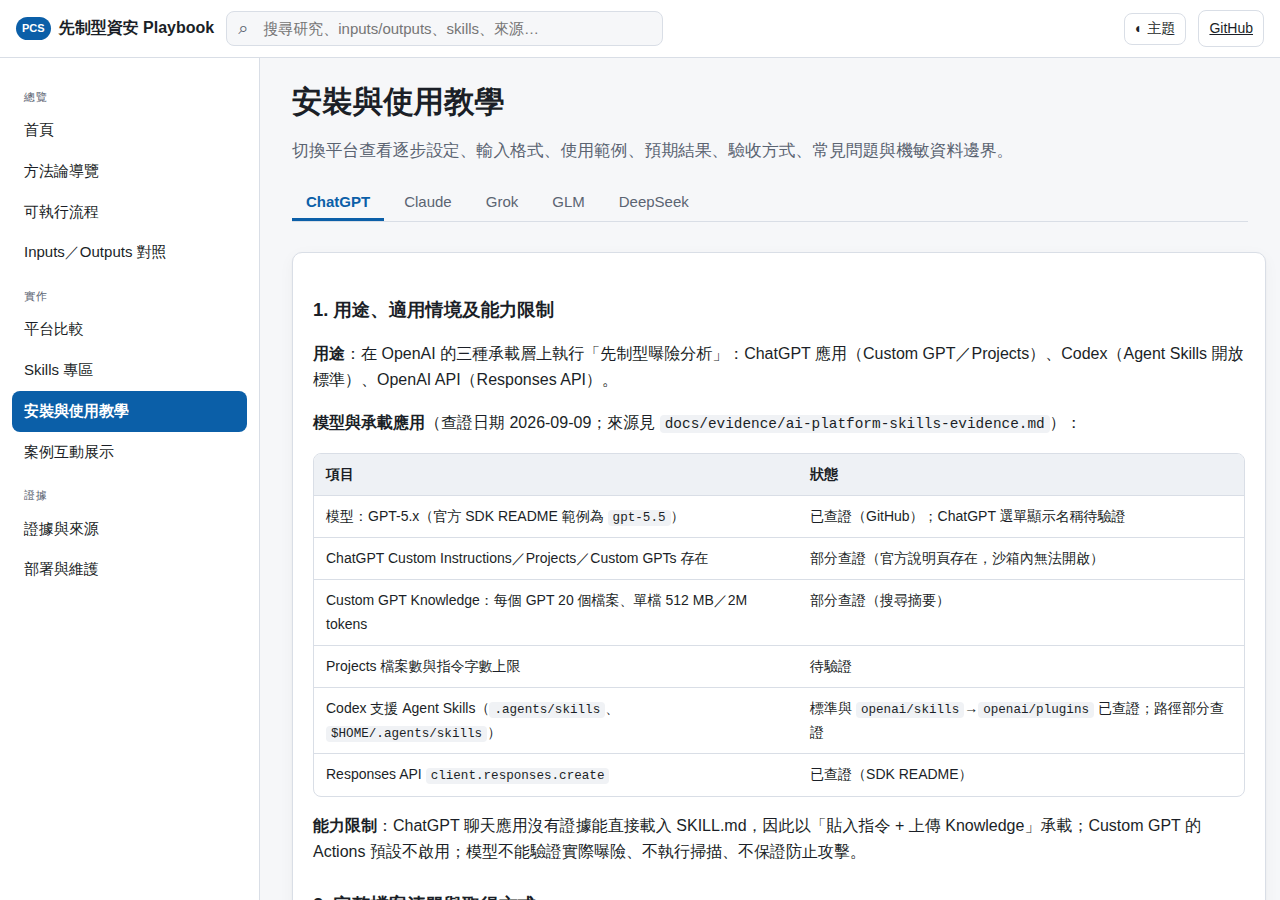
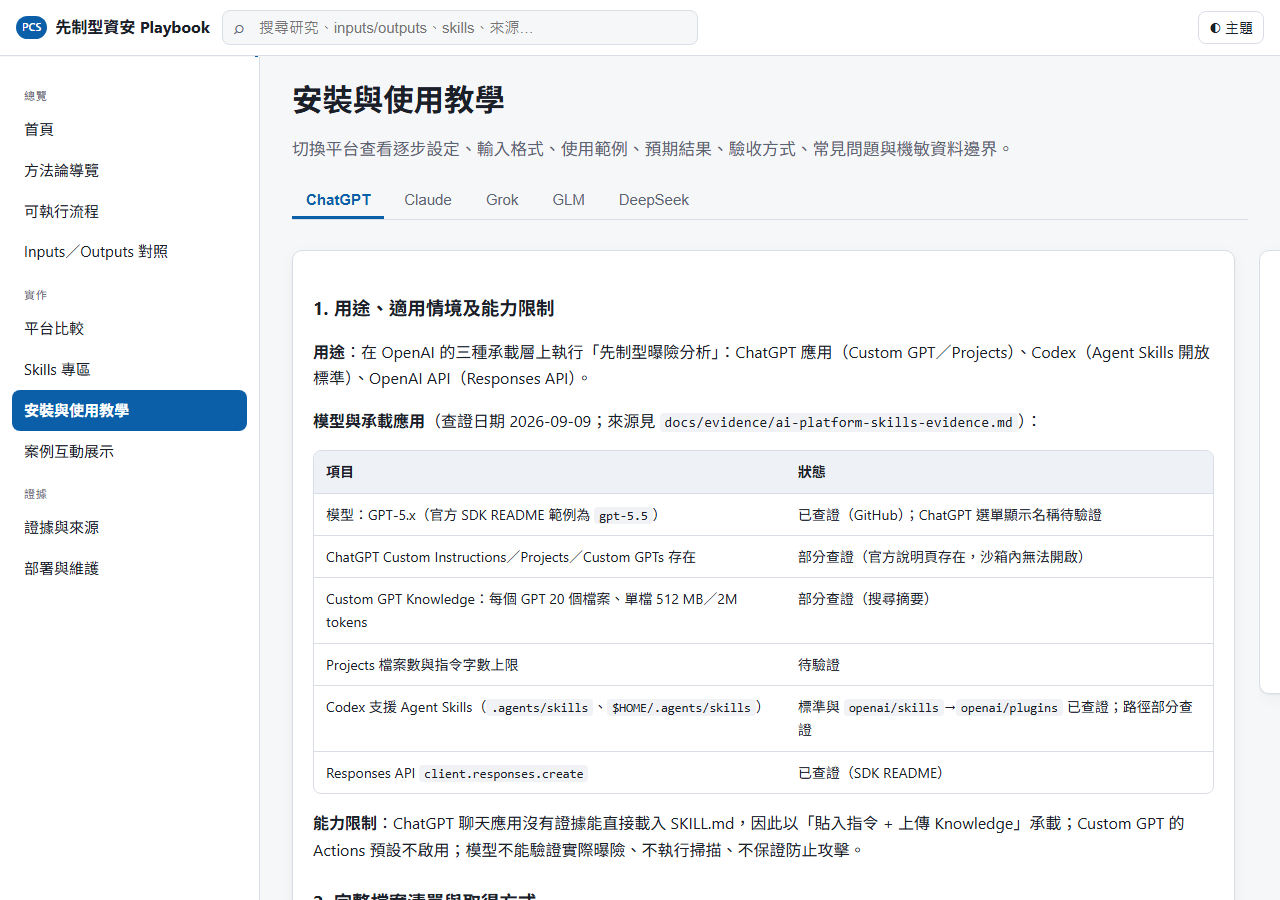
修正公開站點上的死連結，並把來源連結檢查移到 GitHub Actions
儲存庫是 private 但 Pages 站點是公開的，因此所有指向 repo 的連結對訪客都是 404：
topbar 的 GitHub 按鈕、以及 U1／U2 兩筆來源（它們的 URL 只是佔位值，
那兩份使用者提供的 AI 生成報告從未放入儲存庫）。

- topbar GitHub 按鈕預設隱藏，由 assets/app.js 的 REPO_PUBLIC 開關控制；
  儲存庫轉為公開時改一個布林值即可，不必再找散落的連結
- U1／U2 的 url 改為 null，來源表顯示「無公開連結」而非可點的 404；
  verify.mjs 的 --links 會跳過並在 link-check.md 標示
- 部署頁的「建置時間」改為內容指紋，順帶移除該處第二個 repo 連結

連結檢查（P2）：本地 proxy 把 gartner.com 等 42 個 URL 一律回 403，該結果沒有判定價值。
新增 .github/workflows/link-check.yml 在 runner 上執行（手動觸發 + 每季一次），
以 artifact 提供結果並在 job summary 統計狀態碼，不自動提交——
runner 走資料中心 IP，部分站點仍會因 bot 防護回 403，需人工判讀。
verify:links 改為「靜態 + 連結」不含瀏覽器，讓該工作流程不必安裝 Playwright。

verify: 64/64 通過（含 Playwright 瀏覽器檢查；來源頁連結由 57 降為 55，即 U1／U2 已不再產生連結）

diff --git a/data/guides.js b/data/guides.js
@@ -46,6 +46,6 @@ window.GUIDE_DOCS = [
   "title": "部署與維護",
   "order": 90,
   "platform": "",
-  "body": "\n## 1. 網站架構\n\n純靜態網站，無建置框架、無外部相依（無 CDN、無追蹤）：\n\n```\nindex.html            單頁應用程式殼\nassets/styles.css     樣式（淺／深色、行動裝置、列印）\nassets/md.js          極簡 Markdown 渲染器\nassets/demo.js        案例互動展示的確定性引擎\nassets/app.js         hash 路由、各頁面、全站搜尋、複製／下載\ndata/*.js             由 scripts/build-data.mjs 產生（research、guides、skills、case、manifest）或手動維護（process、io、platforms、sources）\ndownloads/*.zip       由建置腳本產生的下載包\ndocs/                 研究文件（research/）、教學（guides/）、證據檔（evidence/）\nskills/               共用規格與五平台檔案（單一來源）\nexamples/             合成範例資料、預期輸出與示範引擎快照\nscripts/              build-data.mjs、verify.mjs、run-demo.mjs\nbackend/              選用的模型 API 代理範例（預設不需要）\npackage.json          npm scripts（建置／驗證的唯一入口）與 Playwright 版本\n.gitattributes        強制文字檔使用 LF（見第 7 節）\n.github/workflows/    pages.yml（部署）、ci.yml（PR 驗證）、link-check.yml（來源連結檢查）\n```\n\n內容以 `docs/` 與 `skills/` 為單一來源；**修改後務必執行** `npm run build` 重新產生 `data/` 與 `downloads/`，否則網站不會更新。\n\n## 2. 本機預覽\n\n```bash\ngit clone https://github.com/chinchiang/GartnerPreemptiveCybersecurity_Claude.git\ncd GartnerPreemptiveCybersecurity_Claude\nnpm run build                  # 等同 node scripts/build-data.mjs，不需要 npm install\nnpx http-server -p 8080 .      # 或 python3 -m http.server 8080\n# 開啟 http://localhost:8080/\n```\n\n建置與靜態驗證只用 Node 內建模組，**不需要 `npm install`**；只有瀏覽器驗證（Playwright）需要 `npm ci`。\n\n直接以 `file://` 開啟 `index.html` 也可運作（資料以 `<script>` 載入，不依賴 fetch）。\n\n## 3. GitHub Pages 部署\n\n工作流程 `.github/workflows/pages.yml` 會在推送到 `main` 時：安裝 Node 22 → `npm run build` → `npm run verify:static` → 上傳整個儲存庫為 Pages artifact → 部署。\n\n**已完成的一次性設定**（2026-09-13）：儲存庫 Settings → Pages → Build and deployment → Source 選 **GitHub Actions**；預設分支設為 `main`；`github-pages` 環境的部署分支規則允許 `main`。目前網址為 `https://chinchiang.github.io/GartnerPreemptiveCybersecurity_Claude/`，部署工作流程已成功執行並經人工確認。若新建 fork 或搬移儲存庫，需重做這三項設定。\n\n若偏好「Deploy from a branch」，也可以直接選 `main` 分支根目錄（因為 `data/` 與 `downloads/` 已提交），但建議用 Actions 以確保建置一致。\n\n## 4. 驗證\n\n```bash\nnpm run verify:static   # 資料檔、來源 ID 對應、schema、示範引擎驗收與快照、下載檔、機敏字串\nnpm run verify          # 加上 Playwright 瀏覽器檢查：導覽、搜尋、篩選、複製、下載、案例互動、行動裝置、無障礙\nnpm run verify:links    # 加上來源連結 HEAD 檢查，輸出 link-check.md（見第 4.2 節）\n```\n\n結果寫入 `verify-report.md`；截圖在 `verify-screenshots/`。任一項失敗時腳本以非零狀態結束。\n\n### 4.1 示範引擎快照\n\n評分規則同時存在於四個地方（`assets/demo.js`、`skills/shared/core-prompt.md`、`skills/shared/task-spec.md` 附錄 A、`skills/claude/.../references/scoring-rules.md`）。`examples/demo-snapshot.txt` 是 `run-demo.mjs` 的黃金輸出，`verify:static` 會逐位元組比對，用來抓「改了一處忘了同步其他三處」。\n\n規則**刻意**變更時：先確認四處都已同步，再執行 `npm run snapshot` 更新快照，並在 PR 說明變更理由。\n\n### 4.2 來源連結檢查在哪裡跑\n\n本地研究環境的出口 proxy 會把 gartner.com 等網域回成 403，**那不代表連結失效**。GitHub Actions runner 沒有這層限制，因此連結檢查改在 CI 執行：`.github/workflows/link-check.yml`（手動 `workflow_dispatch`，另每季 1 月／4 月／7 月／10 月 1 日自動執行），結果以 artifact 形式提供，確認後再覆蓋 `link-check.md` 並更新 `data/sources.js` 的 `LINK_CHECK_NOTE`。\n\nRunner 走資料中心 IP，Gartner 與部分媒體站仍可能因 bot 防護回 403；能藉此區分「本地 proxy 封鎖」與「站方封鎖」已是有價值的資訊。\n\n## 5. 維護\n\n| 要更新什麼 | 改哪裡 | 之後 |\n|---|---|---|\n| 研究內容 | `docs/research/*.md`（frontmatter `order`、`title`、`summary`） | `npm run build` |\n| 來源、待驗證清單、連結檢查紀錄 | `data/sources.js` | 無需 build |\n| 流程／I-O／平台比較 | `data/process.js`、`data/io.js`、`data/platforms.js` | 無需 build |\n| Skills | `skills/<platform>/…`；規則變更先改 `skills/shared/` 再同步各平台 | `npm run build` |\n| 教學 | `docs/guides/<platform>.md` | `npm run build` |\n| 範例資料 | `examples/synthetic-org/`（保持合成） | build；`npm run demo` 對照 `examples/expected-output.md`，再 `npm run snapshot` |\n| 評分規則 | `skills/shared/task-spec.md` 附錄 A、`core-prompt.md`、`assets/demo.js`、`references/scoring-rules.md` 需一致 | build + verify + `npm run snapshot` |\n\n`data/` 與 `downloads/` 是建置產物但**有進版控**（為了讓 `file://` 與「Deploy from a branch」都能用）。CI 會執行 `git diff --exit-code -- data/ downloads/`，忘記重建就會擋下 PR。`data/manifest.js` 內的 `contentHash` 是來源內容的 SHA-256 前 12 碼——刻意不放建置時間，這樣同一份內容永遠產生同一個 manifest，上述檢查才守得住。\n\n建議每季重新查證：Gartner 新文件（尤其 Impact Radar 與 Hype Cycle 更新）、五個平台的模型與功能變動（見待驗證清單）。\n\n## 6. 安全與隱私\n\n- 儲存庫與網站不含任何 API 金鑰、憑證或真實資料；`verify.mjs` 會掃描金鑰樣式字串。\n- 網站不使用 cookie、不連外部服務；主題偏好只存於 `localStorage`。\n- 若啟用 `backend/` 代理，金鑰只在伺服器端，並限制來源與速率。\n\n## 7. 在 Windows 上開發\n\n`.gitattributes` 以 `* text=auto eol=lf` 強制所有文字檔在工作樹中使用 LF。**這不是風格偏好**：`build-data.mjs` 會把 `docs/` 與 `skills/` 的內容內嵌進 `data/*.js` 並打包成 ZIP，若以 CRLF 簽出，產出的位元組就與 Linux（CI／Pages）不同，第 5 節的一致性檢查會誤報。\n\n腳本本身也已對 CRLF 免疫（`readText()` 正規化換行、`parseFrontmatter()` 接受 `\\r?\\n`、路徑一律轉為 `/`），所以就算你的工作樹是 CRLF，建置結果仍然正確。若是在加入 `.gitattributes` 之前就已存在的 clone，執行一次 `git add --renormalize .` 確認索引乾淨即可。\n\n另外：`docs/guides/claude.md` 在不分大小寫的檔案系統上會被 Claude Code 誤認為 `CLAUDE.md` 專案指令檔而自動載入。這只影響在本儲存庫中使用 Claude Code 的體驗，不影響網站；若造成干擾，可在根目錄放一份真正的 `CLAUDE.md` 覆寫。\n"
+  "body": "\n## 1. 網站架構\n\n純靜態網站，無建置框架、無外部相依（無 CDN、無追蹤）：\n\n```\nindex.html            單頁應用程式殼\nassets/styles.css     樣式（淺／深色、行動裝置、列印）\nassets/md.js          極簡 Markdown 渲染器\nassets/demo.js        案例互動展示的確定性引擎\nassets/app.js         hash 路由、各頁面、全站搜尋、複製／下載\ndata/*.js             由 scripts/build-data.mjs 產生（research、guides、skills、case、manifest）或手動維護（process、io、platforms、sources）\ndownloads/*.zip       由建置腳本產生的下載包\ndocs/                 研究文件（research/）、教學（guides/）、證據檔（evidence/）\nskills/               共用規格與五平台檔案（單一來源）\nexamples/             合成範例資料、預期輸出與示範引擎快照\nscripts/              build-data.mjs、verify.mjs、run-demo.mjs\nbackend/              選用的模型 API 代理範例（預設不需要）\npackage.json          npm scripts（建置／驗證的唯一入口）與 Playwright 版本\n.gitattributes        強制文字檔使用 LF（見第 7 節）\n.github/workflows/    pages.yml（部署）、ci.yml（PR 驗證）、link-check.yml（來源連結檢查）\n```\n\n內容以 `docs/` 與 `skills/` 為單一來源；**修改後務必執行** `npm run build` 重新產生 `data/` 與 `downloads/`，否則網站不會更新。\n\n## 2. 本機預覽\n\n```bash\ngit clone https://github.com/chinchiang/GartnerPreemptiveCybersecurity_Claude.git\ncd GartnerPreemptiveCybersecurity_Claude\nnpm run build                  # 等同 node scripts/build-data.mjs，不需要 npm install\nnpx http-server -p 8080 .      # 或 python3 -m http.server 8080\n# 開啟 http://localhost:8080/\n```\n\n建置與靜態驗證只用 Node 內建模組，**不需要 `npm install`**；只有瀏覽器驗證（Playwright）需要 `npm ci`。\n\n直接以 `file://` 開啟 `index.html` 也可運作（資料以 `<script>` 載入，不依賴 fetch）。\n\n## 3. GitHub Pages 部署\n\n工作流程 `.github/workflows/pages.yml` 會在推送到 `main` 時：安裝 Node 22 → `npm run build` → `npm run verify:static` → 上傳整個儲存庫為 Pages artifact → 部署。\n\n**已完成的一次性設定**（2026-09-13）：儲存庫 Settings → Pages → Build and deployment → Source 選 **GitHub Actions**；預設分支設為 `main`；`github-pages` 環境的部署分支規則允許 `main`。目前網址為 `https://chinchiang.github.io/GartnerPreemptiveCybersecurity_Claude/`，部署工作流程已成功執行並經人工確認。若新建 fork 或搬移儲存庫，需重做這三項設定。\n\n若偏好「Deploy from a branch」，也可以直接選 `main` 分支根目錄（因為 `data/` 與 `downloads/` 已提交），但建議用 Actions 以確保建置一致。\n\n## 4. 驗證\n\n```bash\nnpm run verify:static   # 資料檔、來源 ID 對應、schema、示範引擎驗收與快照、下載檔、機敏字串\nnpm run verify          # 加上 Playwright 瀏覽器檢查：導覽、搜尋、篩選、複製、下載、案例互動、行動裝置、無障礙\nnpm run verify:links    # 靜態檢查 + 來源連結 HEAD 檢查（不含瀏覽器），輸出 link-check.md（見第 4.2 節）\n```\n\n結果寫入 `verify-report.md`；截圖在 `verify-screenshots/`。任一項失敗時腳本以非零狀態結束。\n\n### 4.1 示範引擎快照\n\n評分規則同時存在於四個地方（`assets/demo.js`、`skills/shared/core-prompt.md`、`skills/shared/task-spec.md` 附錄 A、`skills/claude/.../references/scoring-rules.md`）。`examples/demo-snapshot.txt` 是 `run-demo.mjs` 的黃金輸出，`verify:static` 會逐位元組比對，用來抓「改了一處忘了同步其他三處」。\n\n規則**刻意**變更時：先確認四處都已同步，再執行 `npm run snapshot` 更新快照，並在 PR 說明變更理由。\n\n### 4.2 來源連結檢查在哪裡跑\n\n本地研究環境的出口 proxy 會把 gartner.com 等網域回成 403，**那不代表連結失效**。GitHub Actions runner 沒有這層限制，因此連結檢查改在 CI 執行：`.github/workflows/link-check.yml`（手動 `workflow_dispatch`，另每季 1 月／4 月／7 月／10 月 1 日自動執行），結果以 artifact 形式提供，確認後再覆蓋 `link-check.md` 並更新 `data/sources.js` 的 `LINK_CHECK_NOTE`。\n\nRunner 走資料中心 IP，Gartner 與部分媒體站仍可能因 bot 防護回 403；能藉此區分「本地 proxy 封鎖」與「站方封鎖」已是有價值的資訊。\n\n## 5. 維護\n\n| 要更新什麼 | 改哪裡 | 之後 |\n|---|---|---|\n| 研究內容 | `docs/research/*.md`（frontmatter `order`、`title`、`summary`） | `npm run build` |\n| 來源、待驗證清單、連結檢查紀錄 | `data/sources.js` | 無需 build |\n| 流程／I-O／平台比較 | `data/process.js`、`data/io.js`、`data/platforms.js` | 無需 build |\n| Skills | `skills/<platform>/…`；規則變更先改 `skills/shared/` 再同步各平台 | `npm run build` |\n| 教學 | `docs/guides/<platform>.md` | `npm run build` |\n| 範例資料 | `examples/synthetic-org/`（保持合成） | build；`npm run demo` 對照 `examples/expected-output.md`，再 `npm run snapshot` |\n| 評分規則 | `skills/shared/task-spec.md` 附錄 A、`core-prompt.md`、`assets/demo.js`、`references/scoring-rules.md` 需一致 | build + verify + `npm run snapshot` |\n\n`data/` 與 `downloads/` 是建置產物但**有進版控**（為了讓 `file://` 與「Deploy from a branch」都能用）。CI 會執行 `git diff --exit-code -- data/ downloads/`，忘記重建就會擋下 PR。`data/manifest.js` 內的 `contentHash` 是來源內容的 SHA-256 前 12 碼——刻意不放建置時間，這樣同一份內容永遠產生同一個 manifest，上述檢查才守得住。\n\n建議每季重新查證：Gartner 新文件（尤其 Impact Radar 與 Hype Cycle 更新）、五個平台的模型與功能變動（見待驗證清單）。\n\n## 6. 安全與隱私\n\n- 儲存庫與網站不含任何 API 金鑰、憑證或真實資料；`verify.mjs` 會掃描金鑰樣式字串。\n- 網站不使用 cookie、不連外部服務；主題偏好只存於 `localStorage`。\n- 若啟用 `backend/` 代理，金鑰只在伺服器端，並限制來源與速率。\n\n## 7. 在 Windows 上開發\n\n`.gitattributes` 以 `* text=auto eol=lf` 強制所有文字檔在工作樹中使用 LF。**這不是風格偏好**：`build-data.mjs` 會把 `docs/` 與 `skills/` 的內容內嵌進 `data/*.js` 並打包成 ZIP，若以 CRLF 簽出，產出的位元組就與 Linux（CI／Pages）不同，第 5 節的一致性檢查會誤報。\n\n腳本本身也已對 CRLF 免疫（`readText()` 正規化換行、`parseFrontmatter()` 接受 `\\r?\\n`、路徑一律轉為 `/`），所以就算你的工作樹是 CRLF，建置結果仍然正確。若是在加入 `.gitattributes` 之前就已存在的 clone，執行一次 `git add --renormalize .` 確認索引乾淨即可。\n\n另外：`docs/guides/claude.md` 在不分大小寫的檔案系統上會被 Claude Code 誤認為 `CLAUDE.md` 專案指令檔而自動載入。這只影響在本儲存庫中使用 Claude Code 的體驗，不影響網站；若造成干擾，可在根目錄放一份真正的 `CLAUDE.md` 覆寫。\n"
  }
 ];

diff --git a/data/sources.js b/data/sources.js
@@ -37,8 +37,8 @@ window.SOURCES = [
   { id: 'V5', title: 'Splunk — Preemptive Cybersecurity in 2026: How It Works', url: 'https://www.splunk.com/en_us/blog/learn/preemptive-cybersecurity.html', publisher: 'Splunk（廠商）', date: '2026', accessed: '2026-09-09', type: 'vendor', paywalled: false, note: '三個 D；重複「35% by 2028」（待驗證）。' },
   { id: 'V6', title: 'XM Cyber — Intelligent Simulation 2025（Gartner 授權轉載頁）', url: 'https://info.xmcyber.com/intelligent-simulation-2025', publisher: 'XM Cyber（廠商）', date: '2025', accessed: '2026-09-09', type: 'vendor', paywalled: true, note: '攻擊路徑／關鍵節點分析作為 CTEM 引擎（廠商定位）。' },
   { id: 'V7', title: 'Vectra — CTEM explained: Gartner\'s 5 stages and 2026 prediction', url: 'https://www.vectra.ai/topics/ctem', publisher: 'Vectra（廠商）', date: '2025/26', accessed: '2026-09-09', type: 'vendor', paywalled: false, note: '引用「3x less likely」並註明「directionally supported, but not empirically validated」。' },
-  { id: 'U1', title: '先制式資安（Preemptive Cybersecurity）深度研究報告（使用者提供；Claude 生成）', url: 'https://github.com/chinchiang/GartnerPreemptiveCybersecurity_Claude', publisher: '使用者提供之 AI 生成報告', date: '2026-07-29', accessed: '2026-09-09', type: 'third-party', paywalled: false, note: '面向臺灣 ODM/EMS 資安主管；本站只採用其結構性觀點（OT 被動探索、RACI、平台即「王冠珠寶地圖」）；其引用之 Verizon DBIR 2026 等數字未在本研究環境核對，列為待驗證。未放入儲存庫。' },
-  { id: 'U2', title: '新興技術研究報告：Preemptive Cybersecurity 的頂尖解決方案能力（使用者提供；ChatGPT 生成）', url: 'https://github.com/chinchiang/GartnerPreemptiveCybersecurity_Claude', publisher: '使用者提供之 AI 生成報告', date: '約 2026-07', accessed: '2026-09-09', type: 'third-party', paywalled: false, note: '六層參考架構、五個治理問題、廠商比較；本站只採用結構性觀點，廠商比較與數字不作為事實。未放入儲存庫。' },
+  { id: 'U1', title: '先制式資安（Preemptive Cybersecurity）深度研究報告（使用者提供；Claude 生成）', url: null, publisher: '使用者提供之 AI 生成報告', date: '2026-07-29', accessed: '2026-09-09', type: 'third-party', paywalled: false, note: '面向臺灣 ODM/EMS 資安主管；本站只採用其結構性觀點（OT 被動探索、RACI、平台即「王冠珠寶地圖」）；其引用之 Verizon DBIR 2026 等數字未在本研究環境核對，列為待驗證。**未放入儲存庫、無公開連結**（先前此欄填的是本儲存庫 URL，那是佔位值，會誤導讀者以為文件可取得）。' },
+  { id: 'U2', title: '新興技術研究報告：Preemptive Cybersecurity 的頂尖解決方案能力（使用者提供；ChatGPT 生成）', url: null, publisher: '使用者提供之 AI 生成報告', date: '約 2026-07', accessed: '2026-09-09', type: 'third-party', paywalled: false, note: '六層參考架構、五個治理問題、廠商比較；本站只採用結構性觀點，廠商比較與數字不作為事實。**未放入儲存庫、無公開連結**（同 U1，先前的 URL 為佔位值）。' },
   // 平台文件
   { id: 'P-AS1', title: 'Agent Skills 開放標準（GitHub：agentskills/agentskills，README 與 specification.mdx）', url: 'https://github.com/agentskills/agentskills', publisher: 'agentskills.io', date: '未標示', accessed: '2026-09-09', type: 'standard', paywalled: false, note: '已讀全文（GitHub）。frontmatter 規則、目錄結構、漸進式載入；採用清單資料檔含 50 項。agentskills.io 網站本身無法開啟。' },
   { id: 'P-C1', title: 'Claude 模型總覽', url: 'https://platform.claude.com/docs/en/about-claude/models/overview', publisher: 'Anthropic', date: '未標示', accessed: '2026-09-09', type: 'platform-doc', paywalled: false, note: '已讀全文：Fable 5.1、Opus 5、Sonnet 5、Haiku 4.5。' },
@@ -72,8 +72,11 @@ window.TODO_ITEMS = [
   { item: 'DeepSeek V4：授權條款、strict tool calling、chat.deepseek.com 的自訂指令／專案、Anthropic 相容介面在 Claude Code 的設定方式', why: 'api-docs.deepseek.com、huggingface.co 無法開啟', how: '開啟 P-D2、P-D3；實測 api-workflow.py' },
   { item: '使用者提供之 AI 生成報告引用的數字（例如 Verizon 2026 DBIR「31% 初始入侵為漏洞利用」「KEV 修補率 26%」、IBM 2024 breach cost）', why: '本研究未核對原始報告', how: '開啟 Verizon DBIR 2026 與 IBM 報告原文' },
   { item: '各平台 skill 在真實模型上的驗收結果', why: '研究環境無 API 金鑰，僅完成 --dry-run 與確定性示範引擎驗證', how: '依各平台教學第 9 節執行 7 項驗收並記錄' },
-  { item: '（已完成）GitHub Pages 部署', why: '2026-09-13 已由 pages.yml 工作流程部署成功，網址 https://chinchiang.github.io/GartnerPreemptiveCybersecurity_Claude/ ，使用者已確認網站可用。保留此項作為紀錄。', how: '若儲存庫改為公開，重跑 node scripts/verify.mjs --links 以更新 U1、U2 的 404 結果' }
+  { item: '（已完成）GitHub Pages 部署', why: '2026-09-13 已由 pages.yml 工作流程部署成功，網址 https://chinchiang.github.io/GartnerPreemptiveCybersecurity_Claude/ ，使用者已確認網站可用。保留此項作為紀錄。', how: '無後續動作；U1／U2 先前指向本儲存庫的佔位 URL 已於 2026-09-14 改為「無公開連結」' },
+  { item: '在不受 proxy 限制的網路重跑連結檢查', why: '2026-09-09 的紀錄中 42 個 URL 回 403，全部來自本地研究環境的出口 proxy 政策，無法判定連結是否有效', how: '在 GitHub 上手動觸發 .github/workflows/link-check.yml（另每季自動執行一次），下載 artifact 後覆蓋 link-check.md 並更新本頁的連結檢查說明；runner 走資料中心 IP，Gartner 等站仍可能因 bot 防護回 403，屆時需人工在瀏覽器確認' }
 ];
 
-window.LINK_CHECK_NOTE = `- **2026-09-09 實際結果**（\`node scripts/verify.mjs --links\`，輸出 \`link-check.md\`）：57 個 URL 中，**13 個回應 200**（github.com 的 7 個官方 repo、platform.claude.com 與 code.claude.com 的 5 頁、agentskills 標準 repo），**42 個回應 403**（研究環境的出口 proxy 政策封鎖：gartner.com、openai.com、help.openai.com、developers.openai.com、docs.x.ai、docs.z.ai、api-docs.deepseek.com、huggingface.co、媒體與廠商網域），**2 個回應 404**（U1、U2 指向本儲存庫，因儲存庫尚未公開；使用者提供的兩份 AI 生成報告未放入儲存庫）。
-- 403 表示**無法在此環境判定連結是否有效**，不代表連結失效。「已查證」僅表示已讀取可開啟的來源；被封鎖的 URL 需在不受限網路重新執行 \`--links\` 並更新本段。`;
+window.LINK_CHECK_NOTE = `- **2026-09-09 實際結果**（\`npm run verify:links\`，輸出 \`link-check.md\`）：57 個 URL 中，**13 個回應 200**（github.com 的 7 個官方 repo、platform.claude.com 與 code.claude.com 的 5 頁、agentskills 標準 repo），**42 個回應 403**（研究環境的出口 proxy 政策封鎖：gartner.com、openai.com、help.openai.com、developers.openai.com、docs.x.ai、docs.z.ai、api-docs.deepseek.com、huggingface.co、媒體與廠商網域），**2 個回應 404**（U1、U2 當時填入本儲存庫 URL 作為佔位值）。
+- 403 表示**無法在此環境判定連結是否有效**，不代表連結失效。「已查證」僅表示已讀取可開啟的來源。
+- **2026-09-14 調整**：U1、U2 是使用者提供、未放入儲存庫的文件，已改為「無公開連結」，不再佔用一個會 404 的 URL；待檢查的 URL 因此為 55 個。
+- **連結檢查已移到 CI 執行**：本地 proxy 的 403 沒有判定價值，因此改由 \`.github/workflows/link-check.yml\`（手動觸發，另每季自動執行）在 GitHub Actions runner 上跑，結果以 artifact 提供，人工確認後再覆蓋 \`link-check.md\` 與本段。runner 走資料中心 IP，Gartner 與部分媒體站仍可能因 bot 防護回 403——但能區分「本地 proxy 封鎖」與「站方封鎖」，已足以縮小待人工核對的範圍。`;

diff --git a/assets/app.js b/assets/app.js
@@ -10,6 +10,9 @@
     stages: window.PROCESS_STAGES || [], io: window.IO_ITEMS || [], platforms: window.PLATFORMS || [], sources: window.SOURCES || [], todo: window.TODO_ITEMS || [],
     manifest: window.BUILD_MANIFEST || {}
   };
+  // 儲存庫為 private、Pages 站點為公開時，任何指向 repo 的連結對訪客都是 404。
+  // 儲存庫轉為公開後把 REPO_PUBLIC 改成 true，topbar 的 GitHub 按鈕就會顯示。
+  const REPO_PUBLIC = false;
   const PLATFORM_META = { claude: 'Claude', chatgpt: 'ChatGPT', grok: 'Grok', glm: 'GLM', deepseek: 'DeepSeek', shared: '共用規格' };
   const PLATFORM_ORDER = ['shared', 'chatgpt', 'claude', 'grok', 'glm', 'deepseek'];
   const TAG = { fact: '<span class="pill fact">Gartner 明確陳述</span>', third: '<span class="pill">其他來源</span>', infer: '<span class="pill infer">本專案推論</span>', rec: '<span class="pill rec">建議</span>', todo: '<span class="pill todo">待驗證</span>' };
@@ -383,7 +386,7 @@
     function draw() {
       const list = D.sources.filter(s => (state.type === 'all' || s.type === state.type) && (!state.text || JSON.stringify(s).toLowerCase().includes(state.text.toLowerCase())));
       $('#s-count').textContent = `顯示 ${list.length} / ${D.sources.length} 筆`;
-      $('#src-list').innerHTML = `<div class="table-wrap"><table><thead><tr><th>ID</th><th>標題</th><th>發布者</th><th>發布日期</th><th>查閱日期</th><th>類型</th><th>付費牆</th><th>備註／用途</th></tr></thead><tbody>${list.map(s => `<tr id="src-${esc(s.id)}" ${q.focus === s.id ? 'style="outline:2px solid var(--accent)"' : ''}><td>${esc(s.id)}</td><td><a href="${esc(s.url)}" target="_blank" rel="noopener noreferrer">${esc(s.title)}</a></td><td>${esc(s.publisher)}</td><td>${esc(s.date || '未標示')}</td><td>${esc(s.accessed)}</td><td>${TYPE[s.type] || esc(s.type)}</td><td>${s.paywalled ? '<span class="pill todo">是（僅公開摘要）</span>' : '否'}</td><td class="small">${md(s.note)}</td></tr>`).join('')}</tbody></table></div>`;
+      $('#src-list').innerHTML = `<div class="table-wrap"><table><thead><tr><th>ID</th><th>標題</th><th>發布者</th><th>發布日期</th><th>查閱日期</th><th>類型</th><th>付費牆</th><th>備註／用途</th></tr></thead><tbody>${list.map(s => `<tr id="src-${esc(s.id)}" ${q.focus === s.id ? 'style="outline:2px solid var(--accent)"' : ''}><td>${esc(s.id)}</td><td>${s.url ? `<a href="${esc(s.url)}" target="_blank" rel="noopener noreferrer">${esc(s.title)}</a>` : `${esc(s.title)} <span class="pill">無公開連結</span>`}</td><td>${esc(s.publisher)}</td><td>${esc(s.date || '未標示')}</td><td>${esc(s.accessed)}</td><td>${TYPE[s.type] || esc(s.type)}</td><td>${s.paywalled ? '<span class="pill todo">是（僅公開摘要）</span>' : '否'}</td><td class="small">${md(s.note)}</td></tr>`).join('')}</tbody></table></div>`;
       if (q.focus) { const f = document.getElementById(`src-${q.focus}`); if (f) f.scrollIntoView({ block: 'center' }); q.focus = null; }
     }
     $('#s-type').value = state.type;
@@ -448,6 +451,7 @@
   // ---------- 初始化 ----------
   function init() {
     $('.sidebar nav').innerHTML = NAV.map(([g, items]) => `<div class="group">${g}</div>${items.map(([h, t]) => `<a href="#${h}">${t}</a>`).join('')}`).join('');
+    if (REPO_PUBLIC) { const repoLink = $('#repo-link'); if (repoLink) repoLink.hidden = false; }
     $('#menu-btn').addEventListener('click', () => { const s = $('.sidebar'); s.classList.toggle('open'); $('#menu-btn').setAttribute('aria-expanded', s.classList.contains('open')); });
     const themeBtn = $('#theme-btn');
     const applyTheme = (t) => { if (t) document.documentElement.setAttribute('data-theme', t); else document.documentElement.removeAttribute('data-theme'); themeBtn.textContent = t === 'dark' ? '☀ 淺色' : t === 'light' ? '☾ 深色' : '◐ 主題'; };

diff --git a/index.html b/index.html
@@ -20,7 +20,9 @@
     </div>
     <div class="spacer"></div>
     <button class="icon-btn" id="theme-btn" aria-label="切換色彩主題">◐ 主題</button>
-    <a class="icon-btn" href="https://github.com/chinchiang/GartnerPreemptiveCybersecurity_Claude" target="_blank" rel="noopener" aria-label="GitHub 儲存庫">GitHub</a>
+    <!-- 儲存庫目前為 private，Pages 站點是公開的：對訪客而言此連結是 404，因此預設隱藏。
+         儲存庫轉為公開後，把 assets/app.js 的 REPO_PUBLIC 改成 true 即會顯示。 -->
+    <a class="icon-btn" id="repo-link" hidden href="https://github.com/chinchiang/GartnerPreemptiveCybersecurity_Claude" target="_blank" rel="noopener" aria-label="GitHub 儲存庫">GitHub</a>
   </header>
   <div class="layout">
     <aside class="sidebar" id="sidebar" aria-label="主要導覽"><nav></nav></aside>

diff --git a/data/manifest.js b/data/manifest.js
@@ -1,6 +1,6 @@
 // 由 scripts/build-data.mjs 自動產生，請勿手動編輯。
 window.BUILD_MANIFEST = {
- "contentHash": "61c962079e59",
+ "contentHash": "1b1e96da3949",
  "research": [
   {
    "id": "00-method",

diff --git a/verify-report.md b/verify-report.md
@@ -1,8 +1,8 @@
 # 驗證報告
 
-執行時間：2026-09-14T00:47:43.303Z
-模式：--static
-結果：33/33 通過
+執行時間：2026-09-14T00:52:04.547Z
+模式：full
+結果：64/64 通過
 
 | 檢查 | 結果 | 說明 |
 |---|---|---|
@@ -39,3 +39,34 @@
 | 下載檔存在 downloads/skills-all-platforms.zip | ✅ |  |
 | 下載檔存在 downloads/synthetic-example-data.zip | ✅ |  |
 | 無 API 金鑰樣式字串 | ✅ |  |
+| 首頁渲染 | ✅ |  |
+| 導覽 #/methodology | ✅ | 方法論導覽 |
+| 導覽 #/process | ✅ | 可執行流程（本專案推論框架） |
+| 導覽 #/io | ✅ | Inputs／Outputs 對照 |
+| 導覽 #/platforms | ✅ | 平台比較 |
+| 導覽 #/skills | ✅ | Skills 專區 |
+| 導覽 #/guides | ✅ | 安裝與使用教學 |
+| 導覽 #/case | ✅ | 案例互動展示：Northwind Precision（合成資 |
+| 導覽 #/sources | ✅ | 證據與來源 |
+| 導覽 #/deploy | ✅ | 部署與維護 |
+| 方法論章節切換 | ✅ | /methodology?doc=01-definition |
+| 全站搜尋回傳結果 | ✅ | 12 筆 |
+| I/O 必要性篩選 | ✅ | 16 → 7 |
+| I/O 階段篩選 | ✅ |  |
+| Skills 一鍵複製（剪貼簿） | ✅ | 3691 字元 |
+| Skills 檔案下載 | ✅ | SKILL.md |
+| Skills ZIP 下載 | ✅ |  |
+| Skills 原始／渲染切換 | ✅ |  |
+| 教學平台切換 Grok | ✅ |  |
+| 案例：移除情資後顯示缺漏警示 | ✅ |  |
+| 案例：移除拓樸後無路徑假設 | ✅ |  |
+| 案例：清冊完整度調整 | ✅ |  |
+| 案例：風險胃納切換改變 P1 數 | ✅ | 10 → 12 |
+| 案例：輸出 JSON 下載 | ✅ |  |
+| 案例：複製報告 Markdown | ✅ |  |
+| 來源頁所有連結為 http(s) | ✅ | 55 個連結 |
+| 來源頁類型篩選 | ✅ |  |
+| 行動裝置：無水平捲動 | ✅ | scrollWidth 390 |
+| 行動裝置：漢堡選單開啟 | ✅ |  |
+| 無障礙：skip link、lang、aria-current | ✅ |  |
+| 無 JS 執行錯誤 | ✅ |  |

diff --git a/docs/guides/deployment.md b/docs/guides/deployment.md
@@ -55,7 +55,7 @@ npx http-server -p 8080 .      # 或 python3 -m http.server 8080
 ```bash
 npm run verify:static   # 資料檔、來源 ID 對應、schema、示範引擎驗收與快照、下載檔、機敏字串
 npm run verify          # 加上 Playwright 瀏覽器檢查：導覽、搜尋、篩選、複製、下載、案例互動、行動裝置、無障礙
-npm run verify:links    # 加上來源連結 HEAD 檢查，輸出 link-check.md（見第 4.2 節）
+npm run verify:links    # 靜態檢查 + 來源連結 HEAD 檢查（不含瀏覽器），輸出 link-check.md（見第 4.2 節）
 ```
 
 結果寫入 `verify-report.md`；截圖在 `verify-screenshots/`。任一項失敗時腳本以非零狀態結束。
